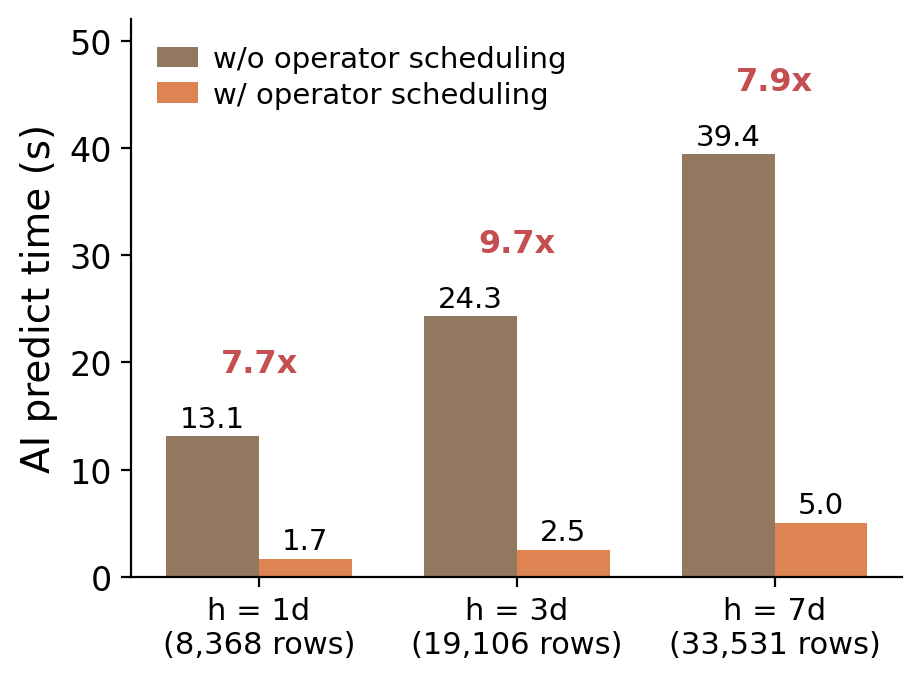
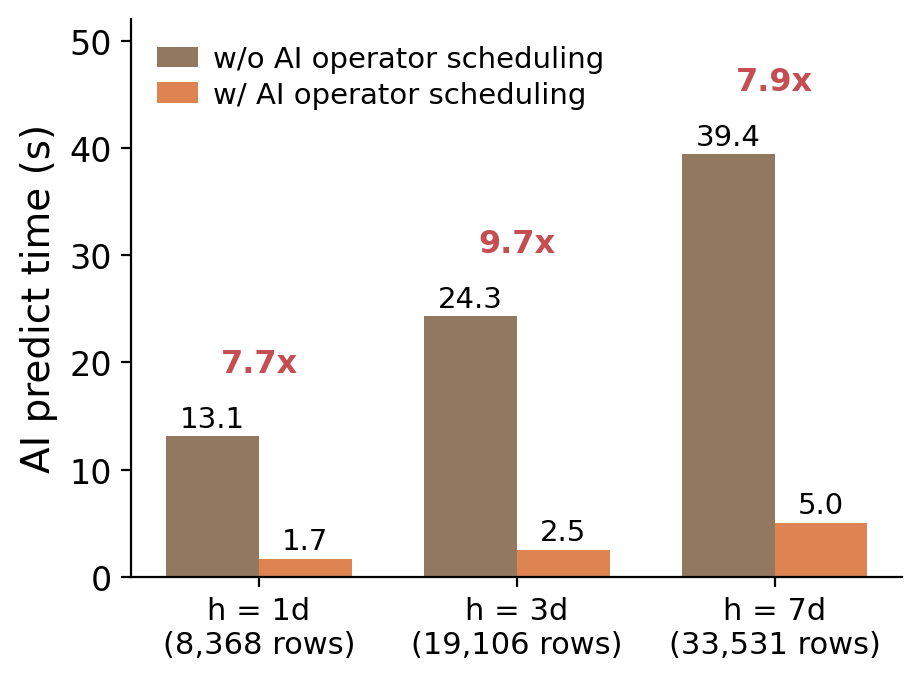
Spell out AI operator scheduling in per-horizon figure legend

Changed region(s): [[0.2733, 0.0619, 0.6681, 0.1546]]

diff --git a/script/experiment/db-26/figure/plot_ablation.py b/script/experiment/db-26/figure/plot_ablation.py
@@ -151,14 +151,14 @@ ax.bar(
     [x - w / 2 for x in xb],
     [t_root[h] for h in horizons],
     w,
-    label="w/o operator scheduling",
+    label="w/o AI operator scheduling",
     color="#937860",
 )
 ax.bar(
     [x + w / 2 for x in xb],
     [t_dyn[h] for h in horizons],
     w,
-    label="w/ operator scheduling",
+    label="w/ AI operator scheduling",
     color="#DD8452",
 )
 for x, h in zip(xb, horizons):
